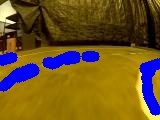
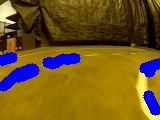
Updated the parameters to get a better result Added new test images

Changed region(s): [[0.375, 0.4, 0.6562, 0.525], [0.8438, 0.575, 0.9688, 0.8]]

diff --git a/image_pipeline.py b/image_pipeline.py
@@ -6,6 +6,52 @@ from line import Line
 solid_lines = True
 temporal_smoothing = True
 
+def pipeline(image_path):
+    image = cv2.imread(image_path)
+
+    # Set image sizes
+    img_h, img_w = image.shape[0], image.shape[1]
+
+    # Crop image to remove background
+    height, width, channels = image.shape
+    #print(image.shape)
+    cropTop = int(round(height * 0.45))
+    cropBottom = int(round(height * 1.0))
+    cropped = image[cropTop:cropBottom, :, :]
+
+    # convert to grayscale
+    img_gray = cv2.cvtColor(cropped, cv2.COLOR_BGR2GRAY)
+
+    # perform gaussian blur
+    #17,17 deafualt kernel
+    img_blur = cv2.GaussianBlur(img_gray, (5, 5), 0)
+
+    # perform edge detection
+    img_edge = cv2.Canny(img_blur, threshold1=50, threshold2=80)
+
+    # perform hough transform
+    detected_lines = cv2.HoughLinesP(img_edge,
+                                     2,
+                                     np.pi / 180,
+                                     1,
+                                     np.array([]),
+                                     minLineLength=7,      # default 15
+                                     maxLineGap=5)          # default 5
+
+    # convert (x1, y1, x2, y2) tuples into Lines
+    detected_lines = [Line(l[0][0], l[0][1], l[0][2], l[0][3]) for l in detected_lines]
+
+    # draw lanes found
+    # prepare empty mask on which lines are drawn
+    #line_img = np.zeros(shape=(img_h, img_w))
+    line_img = image
+    for lane in detected_lines:
+        if 0.1 <= np.abs(lane.slope) <= 4:
+            lane.draw(line_img, offset_y=cropTop)       # Add in cropped location
+
+    # Return the image with lines drawn on it
+    return line_img
+
 def compute_lane_from_candidates(line_candidates, img_shape):
     """
     Compute lines that approximate the position of both road lanes.
@@ -75,102 +121,110 @@ def region_of_interest(img, vertices):
 
     return masked_image, mask
 
-# Read Image
-image = cv2.imread('test_image_2.jpg')
-img_h, img_w = image.shape[0], image.shape[1]
+def debug_pipeline():
+    # Read Image
+    image = cv2.imread('test_image_2.jpg')
 
-# Crop image to remove background
-height, width, channels = image.shape
-print(image.shape)
-cropTop = int(round(height * 0.45))
-cropBottom = int(round(height * 1.0))
-cropped = image[cropTop:cropBottom, :, :]
-cv2.imwrite('1_cropped.jpg', cropped)
-print('Cropped')
-#cropped = image
+    img_h, img_w = image.shape[0], image.shape[1]
+
+    # Crop image to remove background
+    height, width, channels = image.shape
+    print(image.shape)
+    cropTop = int(round(height * 0.45))
+    cropBottom = int(round(height * 1.0))
+    cropped = image[cropTop:cropBottom, :, :]
+    cv2.imwrite('1_cropped.jpg', cropped)
+    print('Cropped')
+    #cropped = image
 
 
-# convert to grayscale
-img_gray = cv2.cvtColor(cropped, cv2.COLOR_BGR2GRAY)
-cv2.imwrite("2_grayscale.jpg", img_gray)
-print("Grayscale")
+    # convert to grayscale
+    img_gray = cv2.cvtColor(cropped, cv2.COLOR_BGR2GRAY)
+    cv2.imwrite("2_grayscale.jpg", img_gray)
+    print("Grayscale")
 
-# perform gaussian blur
-#17,17 deafualt kernel
-img_blur = cv2.GaussianBlur(img_gray, (5, 5), 0)
-cv2.imwrite("3_blur.jpg", img_blur)
-print("Blur")
+    # perform gaussian blur
+    #17,17 deafualt kernel
+    img_blur = cv2.GaussianBlur(img_gray, (5, 5), 0)
+    cv2.imwrite("3_blur.jpg", img_blur)
+    print("Blur")
 
-# perform edge detection
-img_edge = cv2.Canny(img_blur, threshold1=50, threshold2=80)
-cv2.imwrite("4_canny.jpg", img_edge)
-print("Canny")
+    # perform edge detection
+    img_edge = cv2.Canny(img_blur, threshold1=50, threshold2=80)
+    cv2.imwrite("4_canny.jpg", img_edge)
+    print("Canny")
 
-# perform hough transform
-detected_lines = cv2.HoughLinesP(img_edge,
-                                 2,
-                                 np.pi / 180,
-                                 1,
-                                 np.array([]),
-                                 minLineLength=7,      # default 15
-                                 maxLineGap=5)          # default 5
+    # perform hough transform
+    detected_lines = cv2.HoughLinesP(img_edge,
+                                     2,
+                                     np.pi / 180,
+                                     1,
+                                     np.array([]),
+                                     minLineLength=7,      # default 15
+                                     maxLineGap=5)          # default 5
 
-print("Lines")
-print(detected_lines)
+    print("Lines")
+    print(detected_lines)
 
-# convert (x1, y1, x2, y2) tuples into Lines
-detected_lines = [Line(l[0][0], l[0][1], l[0][2], l[0][3]) for l in detected_lines]
-print("Detected Lines: ", len(detected_lines))
+    # convert (x1, y1, x2, y2) tuples into Lines
+    detected_lines = [Line(l[0][0], l[0][1], l[0][2], l[0][3]) for l in detected_lines]
+    print("Detected Lines: ", len(detected_lines))
 
-# if 'solid_lines' infer the two lane lines
-#if solid_lines:
-#    candidate_lines = []
-#    for line in detected_lines:
-#        # consider only lines with slope between 30 and 60 degrees
-#        if 0.5 <= np.abs(line.slope) <= 2:
-#            candidate_lines.append(line)
-#            print("candidate line found")
-#    # interpolate lines candidates to find both lanes
-#    lane_lines = compute_lane_from_candidates(candidate_lines, img_gray.shape)
-#else:
-#    # if not solid_lines, just return the hough transform output
-#    lane_lines = detected_lines
+    # if 'solid_lines' infer the two lane lines
+    #if solid_lines:
+    #    candidate_lines = []
+    #    for line in detected_lines:
+    #        # consider only lines with slope between 30 and 60 degrees
+    #        if 0.5 <= np.abs(line.slope) <= 2:
+    #            candidate_lines.append(line)
+    #            print("candidate line found")
+    #    # interpolate lines candidates to find both lanes
+    #    lane_lines = compute_lane_from_candidates(candidate_lines, img_gray.shape)
+    #else:
+    #    # if not solid_lines, just return the hough transform output
+    #    lane_lines = detected_lines
 
-#lane_lines = []
-#for line in detected_lines:
-#    print("Line Slope: ", line.slope)
-# consider only lines with slope between 30 and 60 degrees
-#    if 0.2 <= np.abs(line.slope) <= 2:
-#        lane_lines.append(line)
-#print("Sort out the lines")
-#print("Lane Line Count: ", len(lane_lines))
-lane_lines = detected_lines
+    #sorted_lines = []
+    #for line in detected_lines:
+    #    print("Line Slope: ", line.slope)
+    # consider only lines with slope between 30 and 60 degrees
+    #    if 0.1 <= np.abs(line.slope) <= 4:      # 0.2 to 2
+    #        sorted_lines.append(line)
+    #print("Sort out the lines")
+    #print("Lane Line Count: ", len(lane_lines))
+    #lane_lines = compute_lane_from_candidates(sorted_lines, img_gray.shape)
+    lane_lines = detected_lines
 
-# draw lanes found
-# prepare empty mask on which lines are drawn
-#line_img = np.zeros(shape=(img_h, img_w))
-line_img = image
-for lane in lane_lines:
-    #print("Selected LIne: X1", lane.x1)
-    #print("Selected LIne: Y1", lane.y1)
-    #print("Selected LIne: X2", lane.x2)
-    #print("Selected LIne: Y2", lane.y2)
-    lane.draw(line_img, offset_y=cropTop)       # Add in cropped location
-cv2.imwrite("5_lines.jpg", line_img)
-print("Lines drawn")
+    # draw lanes found
+    # prepare empty mask on which lines are drawn
+    #line_img = np.zeros(shape=(img_h, img_w))
+    line_img = image
+    for lane in lane_lines:
+        print("Slope: ", lane.slope)
+        if 0.1 <= np.abs(lane.slope) <= 4:
+            #print("Selected LIne: X1", lane.x1)
+            #print("Selected LIne: Y1", lane.y1)
+            #print("Selected LIne: X2", lane.x2)
+            #print("Selected LIne: Y2", lane.y2)
+            lane.draw(line_img, offset_y=cropTop)       # Add in cropped location
+    cv2.imwrite("5_lines.jpg", line_img)
+    print("Lines drawn")
 
-"""
-# keep only region of interest by masking
-vertices = np.array([[(50, img_h),
-                      (450, 310),
-                      (490, 310),
-                      (img_w - 50, img_h)]],
-                    dtype=np.int32)
-img_masked, _ = region_of_interest(line_img, vertices)
-print("image mask")
-cv2.imwrite("img_mask.jpg", img_masked)
+    """
+    # keep only region of interest by masking
+    vertices = np.array([[(50, img_h),
+                          (450, 310),
+                          (490, 310),
+                          (img_w - 50, img_h)]],
+                        dtype=np.int32)
+    img_masked, _ = region_of_interest(line_img, vertices)
+    print("image mask")
+    cv2.imwrite("img_mask.jpg", img_masked)
+    
+    img_blend = weighted_img(img_masked, image, α=0.8, β=1., λ=0.)
+    print("Final image drawn")
+    cv2.imwrite("final.jpg", img_blend)
+    """
 
-img_blend = weighted_img(img_masked, image, α=0.8, β=1., λ=0.)
-print("Final image drawn")
-cv2.imwrite("final.jpg", img_blend)
-"""
+if __name__ == "__main__":
+    debug_pipeline()

diff --git a/line.py b/line.py
@@ -28,7 +28,7 @@ class Line:
         return np.array([self.x1, self.y1, self.x2, self.y2])
 
     def set_coords(self, x1, y1, x2, y2):
-        self.x1 = x1
+        self.x1 = x1s
         self.y1 = y1
         self.x2 = x2
         self.y2 = y2
